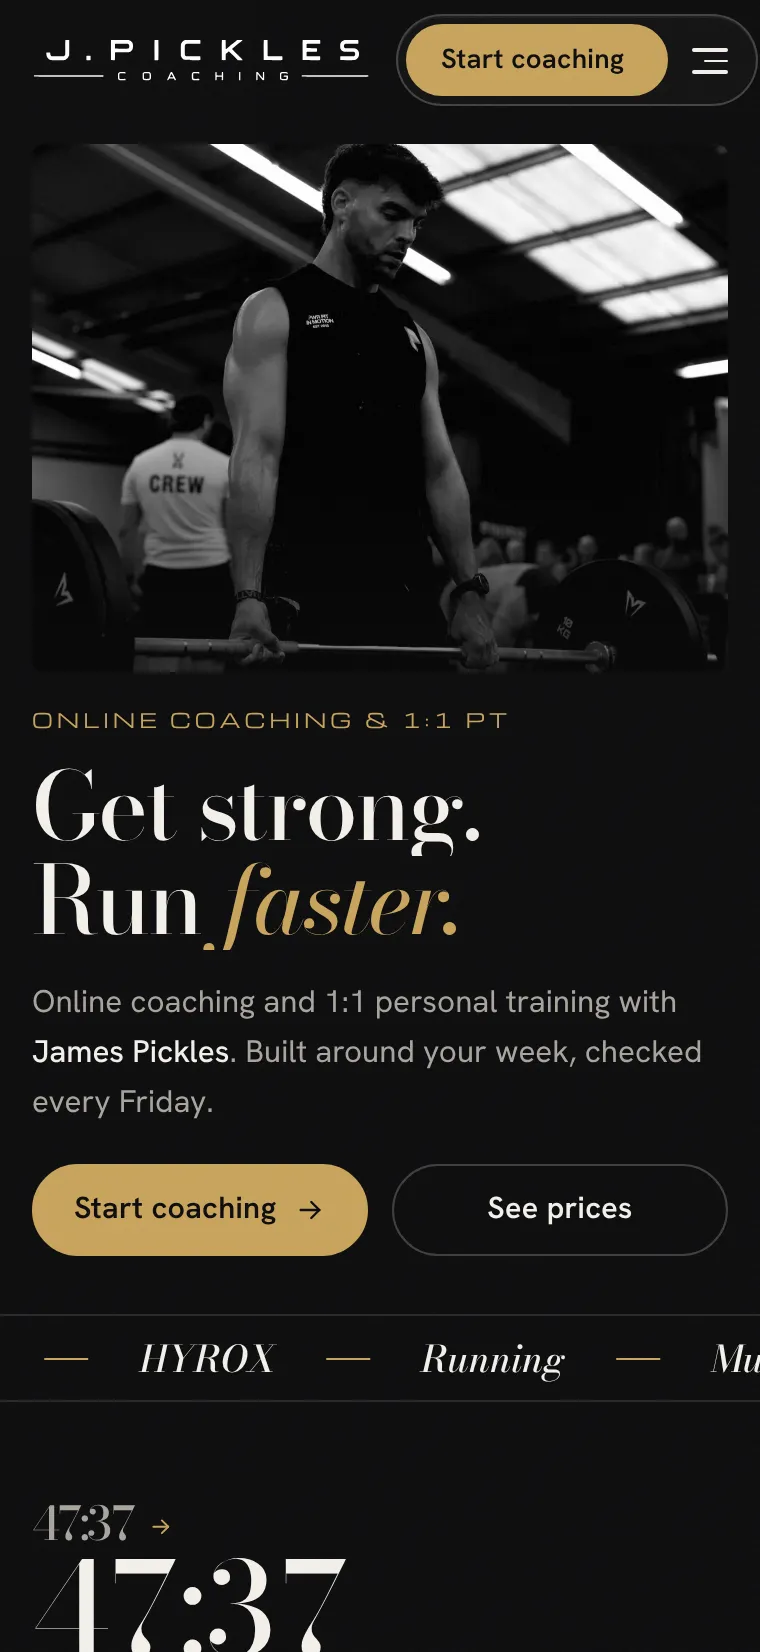
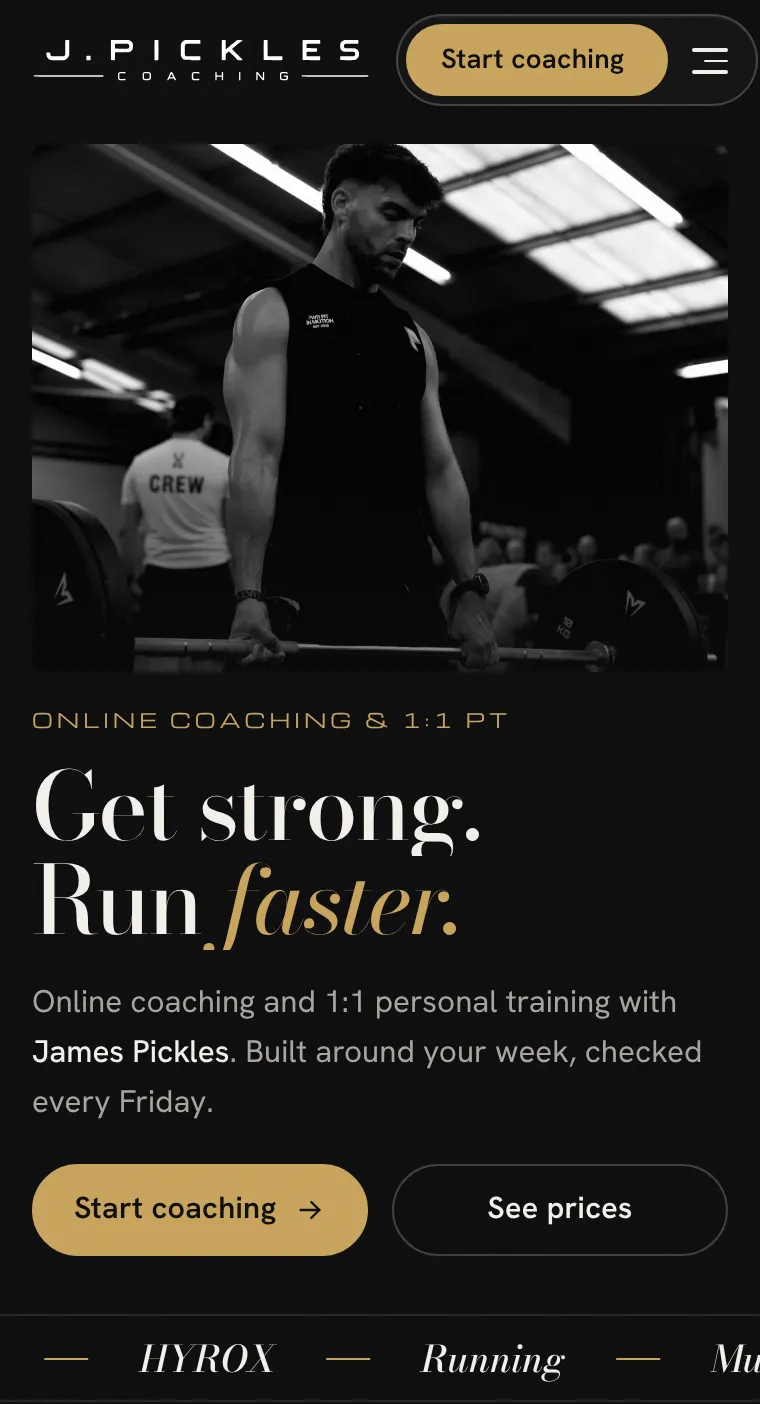
Every animation plays with Reduce Motion on; J.Pickles phone mockup ends at his goals strip
Claude-Session: https://claude.ai/code/session_01AUAswNCc5hijafqK1doAh9

diff --git a/src/styles/home.css b/src/styles/home.css
@@ -339,24 +339,11 @@ a{color:#5b2695}a:hover{color:#2f1147}
 }
 /* section nav rail (kept from the live site) */
 /* over the dark hero/footer the rail flips to white so it stays visible */
-/* Reduce Motion (often switched on to save battery): swap movement for dissolves, as iOS itself does.
-   Fades, line draws, the price count-down and scroll-linked fills stay, and so do three small, contained
-   effects: the light sweep on the hero button, the work screens scrolling inside their phone
-   frames (they pause on hover, and showing the client sites is the point of the section), the speed lines
-   inside the hero mockup and the founding offer bar's light sweep, pulse and ticking countdown. The services
-   strip under the hero, drifting glows, floating and tilting mockups and slide-ins all stop.
-   Everything ends fully visible. */
+/* Reduce Motion: the owner wants every animation to play for everyone, including phones with Reduce Motion
+   switched on (often done to save battery), so there are no reduced-motion overrides on this site.
+   prefersReducedMotion() in src/lib/motion-utils.js always answers false for the same reason. */
 @keyframes cg-fade{from{opacity:0}to{opacity:1}}
-@media (prefers-reduced-motion: reduce){
-.cg .marquee-track,.cg .blob-a,.cg .blob-b,.cg .blob-c,.cg .hero-dark .bob,.cg .hero-dark .phone,.cg .ba-frame.auto .ba-before,.cg .ba-frame.auto .ba-handle,.cg .ba-arrow,.cg .tier-feature::before,.cg .step-node-final,.cg .founding::after,.cg .hero-dark .scroll-dot{animation:none !important}
-.cg .site-header,.cg .hero-dark .line > span,.cg .hero-dark .fade,.cg .hero-dark .browser,.cg section.landed .eyebrow,.cg section.landed h2:not(.sub-h),.cg .hero-dark .browser{transform:none !important}
-.cg section.landed .eyebrow::before{animation:none !important}
-.cg *,.cg *::before,.cg *::after{transition-property:opacity,color,background-color,border-color,box-shadow,grid-template-rows !important}
-.cg .rv,.cg .rv.rv-x{transform:none !important}
-.cg .ticks.pre .tick{transform:none !important}
-.cg .tiers.pre.go .rrp::after{transition-property:transform !important}
-.cg .timeline-fill{transition:none !important}
-}
+
 
 :root{color-scheme:light}
 html{scroll-behavior:auto}
@@ -421,7 +408,7 @@ html{scroll-padding-top:122px}
 ::view-transition-new(root){animation:cg-vt-in .42s cubic-bezier(.16,1,.3,1) both}
 @keyframes cg-vt-out{to{opacity:0}}
 @keyframes cg-vt-in{from{opacity:0;transform:translateY(14px)}}
-@media (prefers-reduced-motion:reduce){@view-transition{navigation:none}}
+
 
 /* "Skip to content": hidden until a keyboard user presses Tab, then shown top-left. */
 .skip-link{position:absolute;left:12px;top:-100px;z-index:1000;padding:12px 18px;border-radius:12px;background:#2f1147;color:#fff;font-weight:700;text-decoration:none}

diff --git a/src/styles/global.css b/src/styles/global.css
@@ -40,16 +40,7 @@ html {
   scrollbar-color: var(--line-strong) var(--bg);
 }
 
-@media (prefers-reduced-motion: reduce) {
-  html {
-    scroll-behavior: auto;
-  }
-  *, *::before, *::after {
-    animation-duration: 0.01ms !important;
-    animation-iteration-count: 1 !important;
-    transition-duration: 0.01ms !important;
-  }
-}
+
 
 body {
   margin: 0;
@@ -424,7 +415,7 @@ img {
 ::view-transition-new(root) { animation: cg-vt-in 0.42s cubic-bezier(0.16, 1, 0.3, 1) both; }
 @keyframes cg-vt-out { to { opacity: 0; } }
 @keyframes cg-vt-in { from { opacity: 0; transform: translateY(14px); } }
-@media (prefers-reduced-motion: reduce) { @view-transition { navigation: none; } }
+
 
 /* "Skip to content": hidden until a keyboard user presses Tab, then shown top-left. */
 .skip-link{position:absolute;left:12px;top:-100px;z-index:1000;padding:12px 18px;border-radius:12px;background:#2f1147;color:#fff;font-weight:700;text-decoration:none}

diff --git a/src/lib/motion-utils.js b/src/lib/motion-utils.js
@@ -1,5 +1,6 @@
-export const prefersReducedMotion = () =>
-  window.matchMedia("(prefers-reduced-motion: reduce)").matches;
+// Every animation plays for everyone, Reduce Motion or not (the owner's choice; see home.css).
+// Kept as a function so the scripts that ask still read clearly.
+export const prefersReducedMotion = () => false;
 
 export const SPRING_GENTLE = { type: "spring", stiffness: 300, damping: 20, mass: 1 };
 export const SPRING_SNAPPY = { type: "spring", stiffness: 500, damping: 25, mass: 0.8 };
